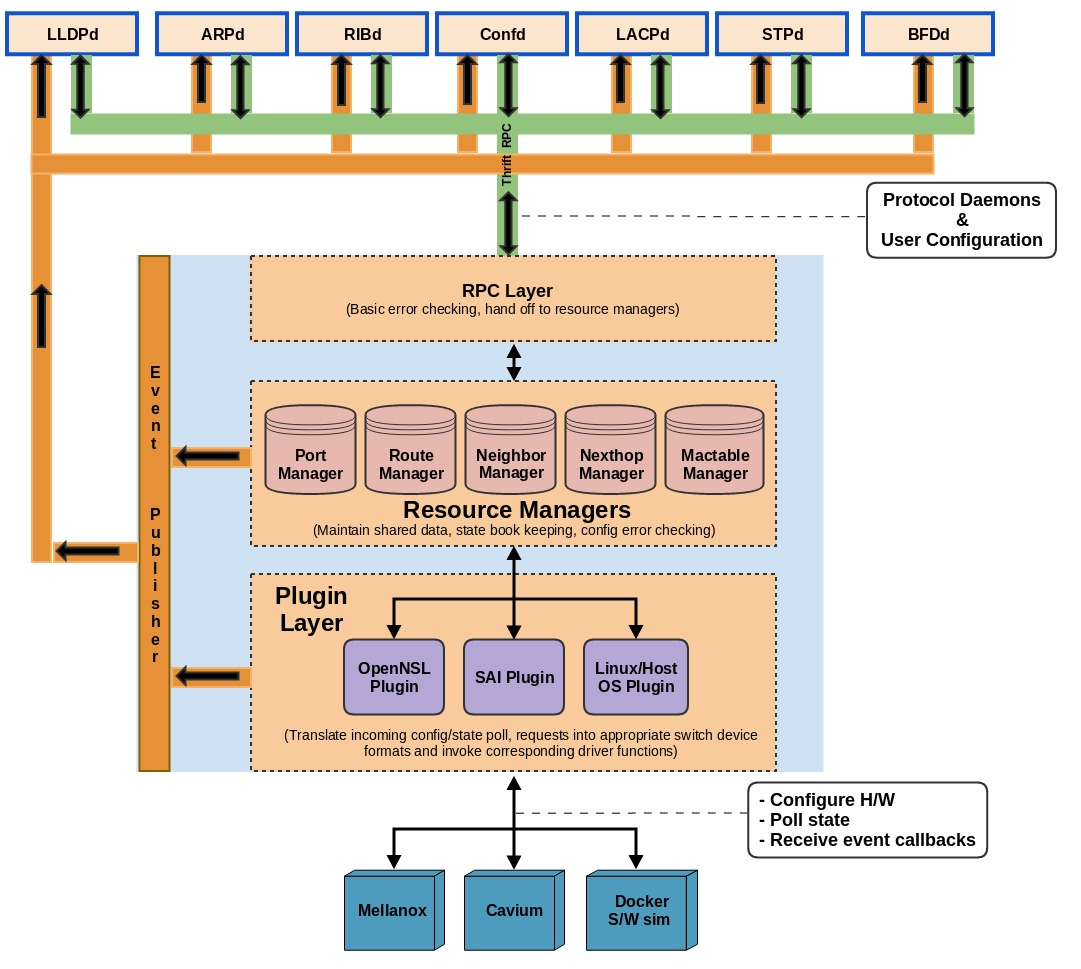
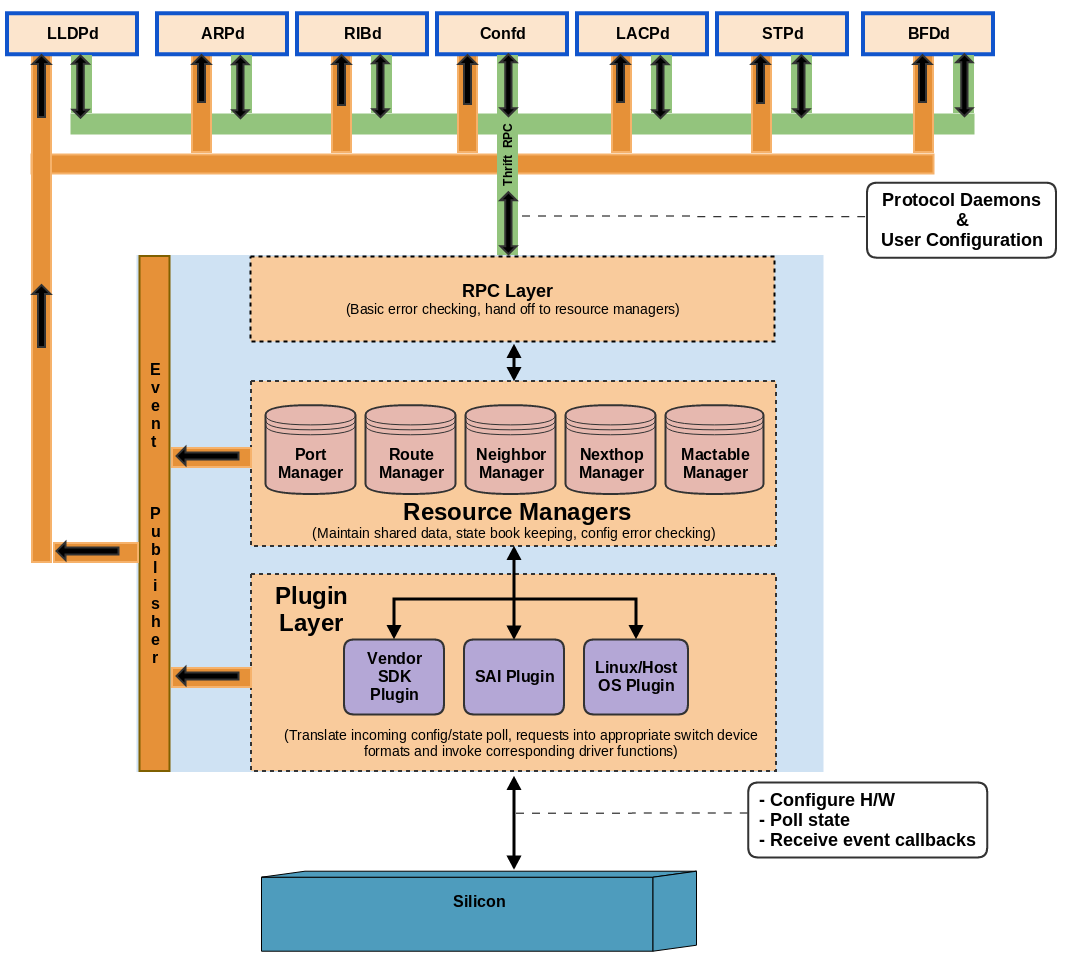
Formatting changes

diff --git a/asicd.html b/asicd.html
@@ -179,7 +179,7 @@ These resource managers also maintain any relevant state data for each correspon
 </div>
 <div class="section" id="plugins">
 <h2>Plugins :<a class="headerlink" href="#plugins" title="Permalink to this headline">¶</a></h2>
-<p>ASICd uses a plugin based approach to effectively abstract away differences between ASICs from multiple vendors. The following plugins are currently supported</p>
+<p>ASICd uses a plugin based approach to effectively abstract away differences between ASICs. The following plugins are currently supported</p>
 <p>OpenNsl</p>
 <p>SAI</p>
 <p>Softswitch</p>

diff --git a/source/asicd.rst b/source/asicd.rst
@@ -26,7 +26,7 @@ These resource managers also maintain any relevant state data for each correspon
 
 Plugins :
 ---------
-ASICd uses a plugin based approach to effectively abstract away differences between ASICs from multiple vendors. The following plugins are currently supported
+ASICd uses a plugin based approach to effectively abstract away differences between ASICs. The following plugins are currently supported
 
 OpenNsl 
 
